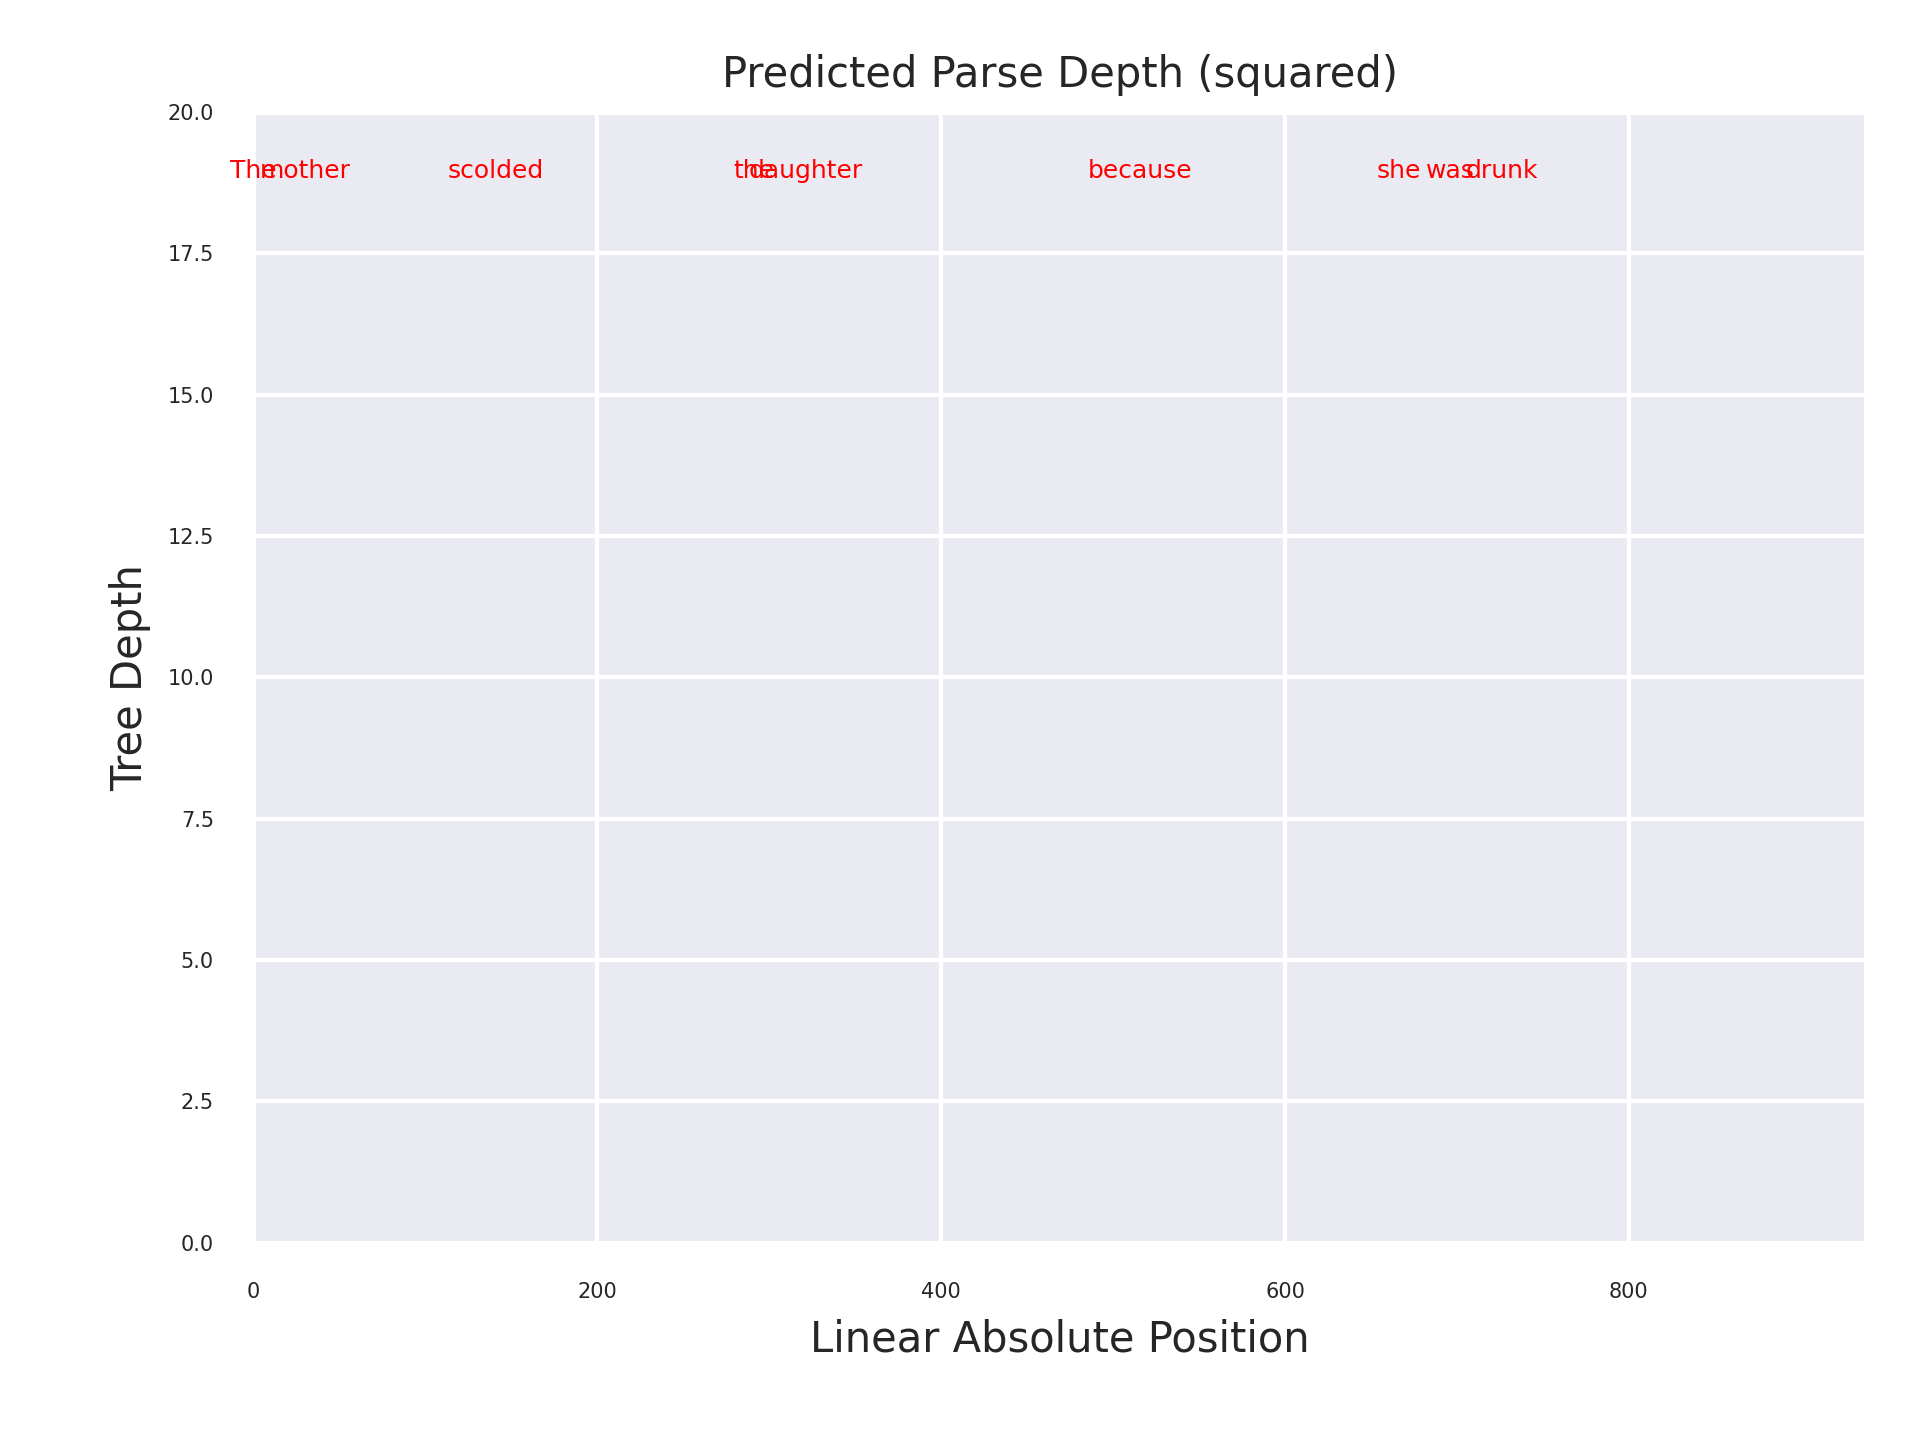
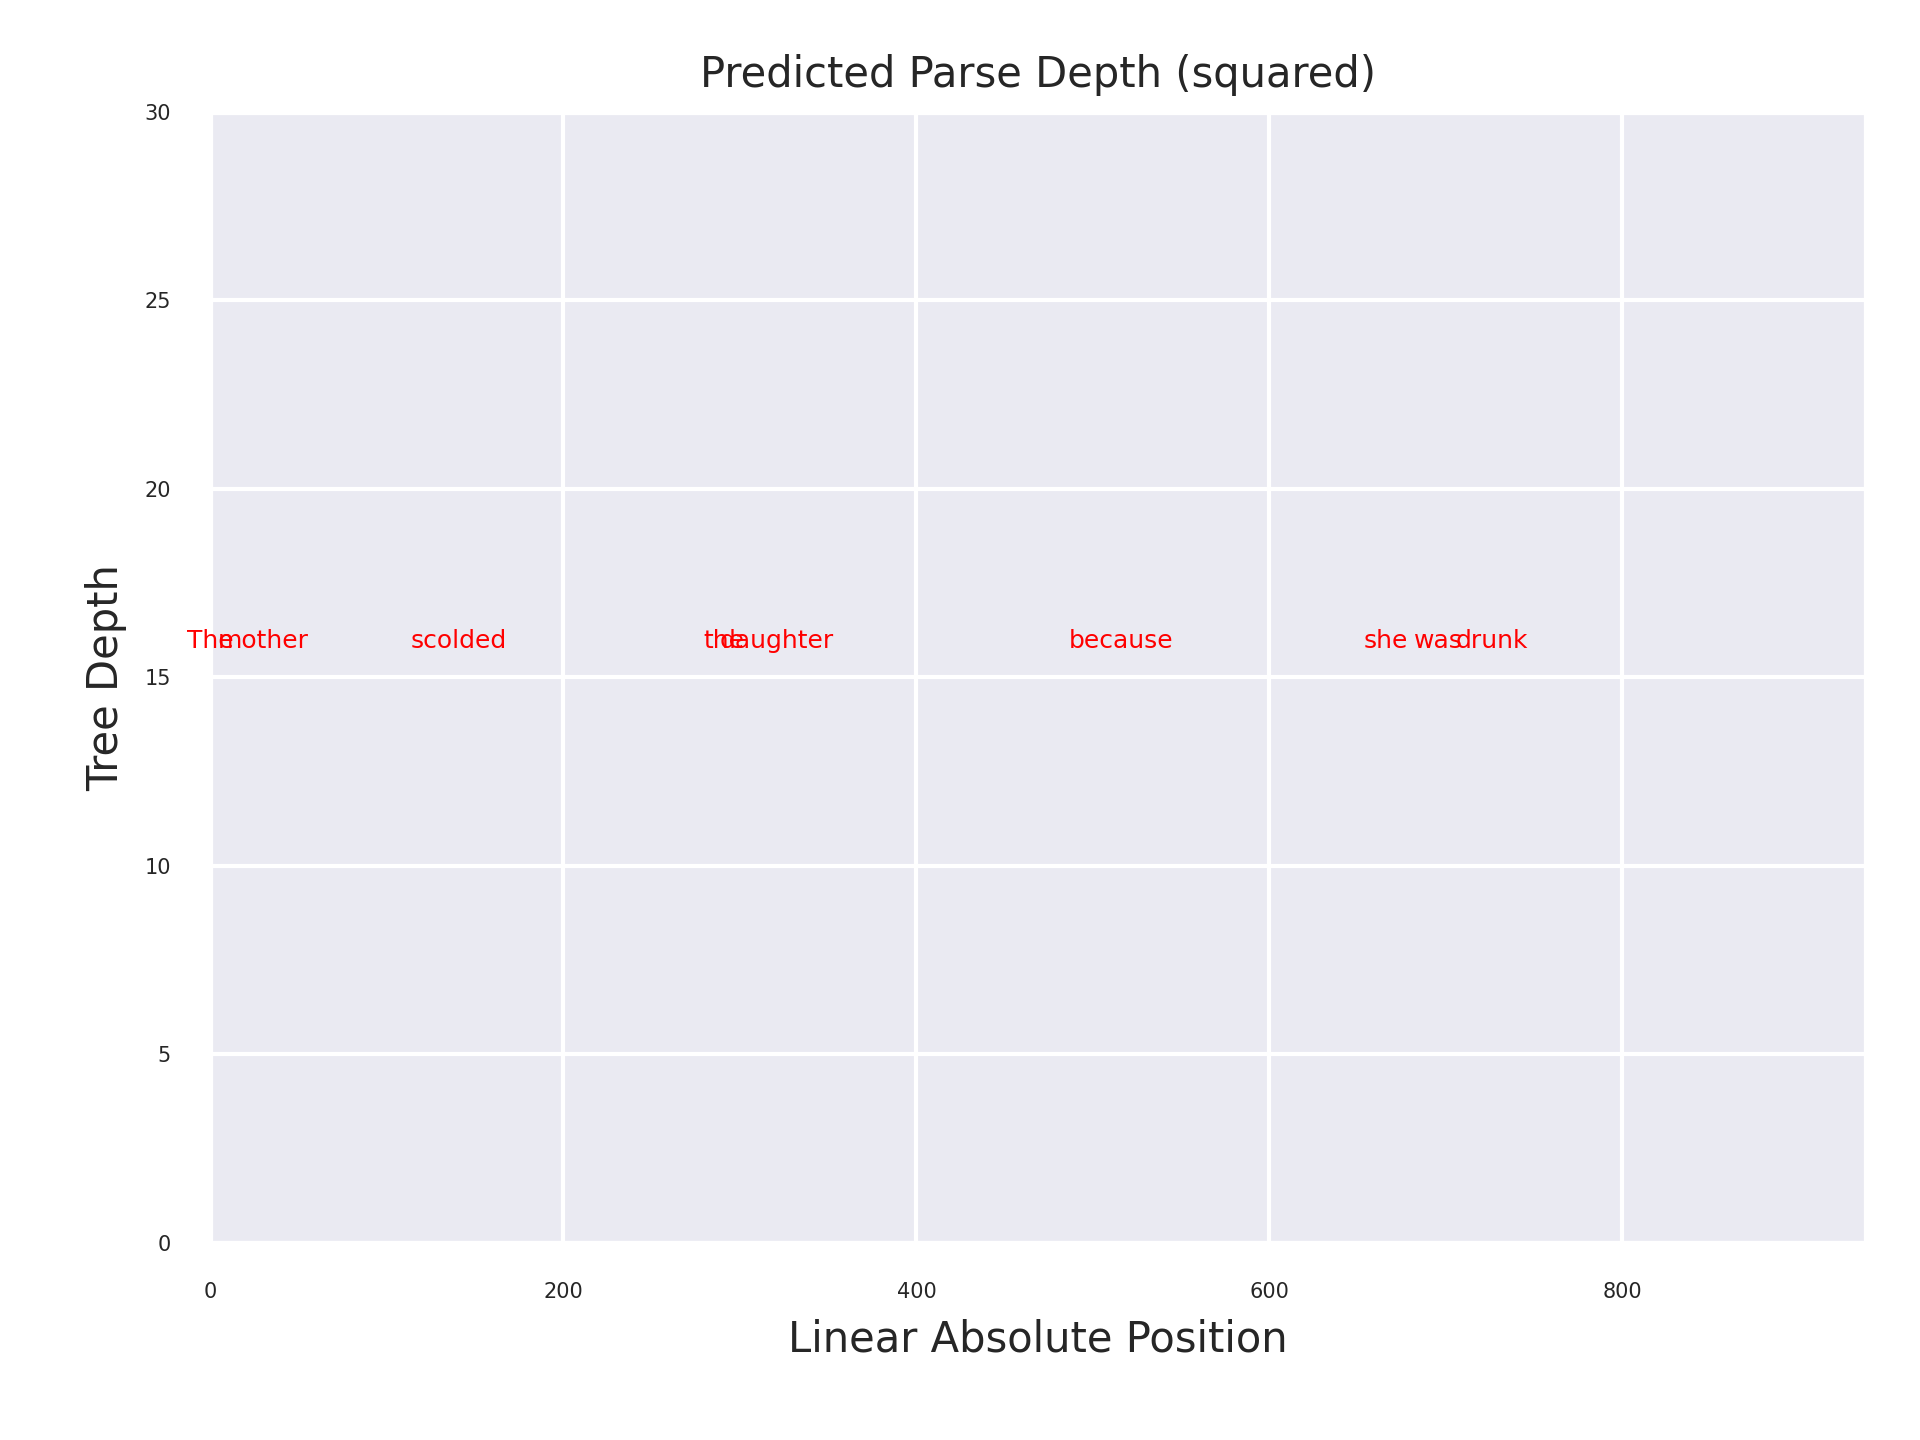
modifying plots and printing predictions

diff --git a/structural-probes/run_demo.py b/structural-probes/run_demo.py
@@ -86,7 +86,7 @@ def print_depth_image(args, words, prediction, sent_index):
     plt.text(cumdist*3, pred*2, word, fontsize=fontsize, color='red', ha='center')
     cumdist = cumdist + (np.square(len(word)) + 1)
 
-  plt.ylim(0,20)
+  plt.ylim(0,30)
   plt.xlim(0,cumdist*3.5)
   plt.title('Predicted Parse Depth (squared)', fontsize=10)
   plt.ylabel('Tree Depth', fontsize=10)
@@ -155,6 +155,13 @@ def report_on_stdin(args):
 
       predicted_edges = reporter.prims_matrix_to_edges(distance_predictions, untokenized_sent, untokenized_sent)
       print_tikz(args, predicted_edges, untokenized_sent)
+
+      print()
+      print("Distance Predictions: ")
+      print(distance_predictions)
+      print()
+      print("Depth Predictions: ")
+      print(depth_predictions)
 
 
 if __name__ == '__main__':

diff --git a/structural-probes/run_demo2.py b/structural-probes/run_demo2.py
@@ -88,7 +88,7 @@ def print_depth_image(args, words, prediction, sent_index):
     plt.text(cumdist*3, pred*2, word, fontsize=fontsize, color='red', ha='center')
     cumdist = cumdist + (np.square(len(word)) + 1)
 
-  plt.ylim(0,20)
+  plt.ylim(0,30)
   plt.xlim(0,cumdist*3.5)
   plt.title('Predicted Parse Depth (squared)', fontsize=10)
   plt.ylabel('Tree Depth', fontsize=10)
@@ -159,6 +159,13 @@ def report_on_stdin(args):
 
       predicted_edges = reporter.prims_matrix_to_edges(distance_predictions, untokenized_sent, untokenized_sent)
       print_tikz(args, predicted_edges, untokenized_sent)
+
+      print()
+      print("Distance Predictions: ")
+      print(distance_predictions)
+      print()
+      print("Depth Predictions: ")
+      print(depth_predictions)
 
 
 if __name__ == '__main__':

diff --git a/structural-probes/run_demo3.py b/structural-probes/run_demo3.py
@@ -88,7 +88,7 @@ def print_depth_image(args, words, prediction, sent_index):
     plt.text(cumdist*3, pred*2, word, fontsize=fontsize, color='red', ha='center')
     cumdist = cumdist + (np.square(len(word)) + 1)
 
-  plt.ylim(0,20)
+  plt.ylim(0,30)
   plt.xlim(0,cumdist*3.5)
   plt.title('Predicted Parse Depth (squared)', fontsize=10)
   plt.ylabel('Tree Depth', fontsize=10)
@@ -159,6 +159,13 @@ def report_on_stdin(args):
 
       predicted_edges = reporter.prims_matrix_to_edges(distance_predictions, untokenized_sent, untokenized_sent)
       print_tikz(args, predicted_edges, untokenized_sent)
+
+      print()
+      print("Distance Predictions: ")
+      print(distance_predictions)
+      print()
+      print("Depth Predictions: ")
+      print(depth_predictions)
 
 
 if __name__ == '__main__':
